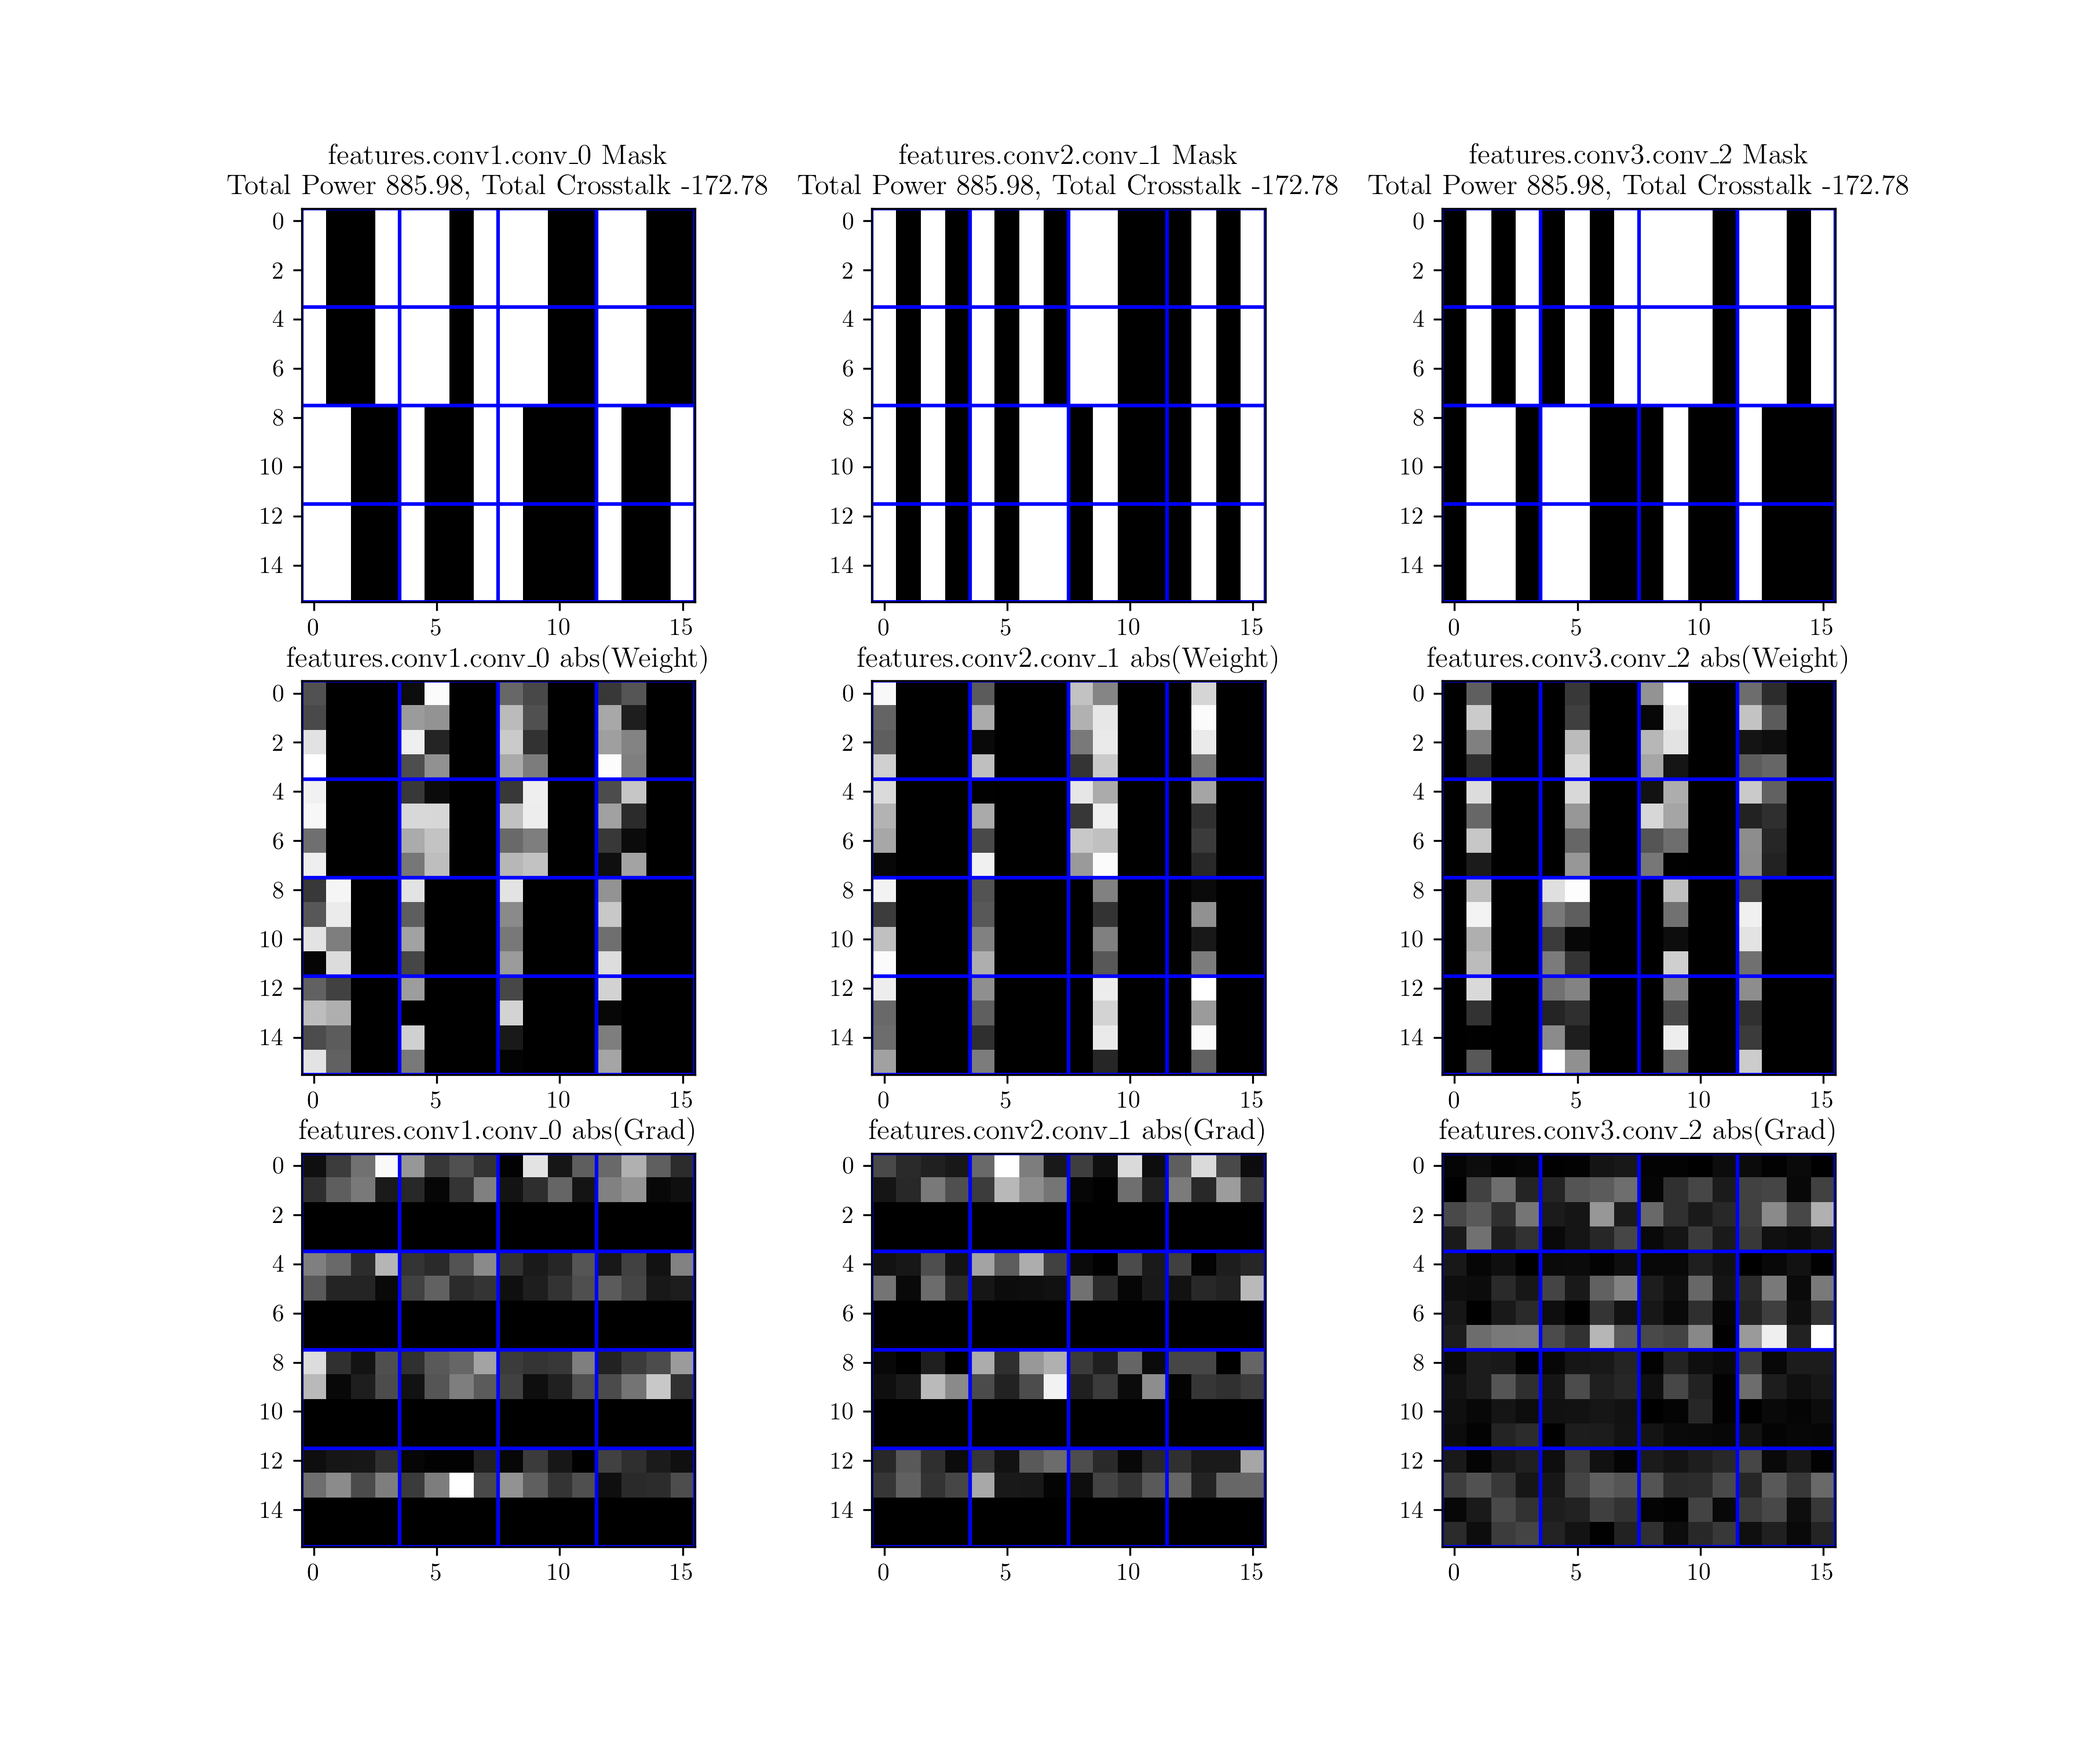
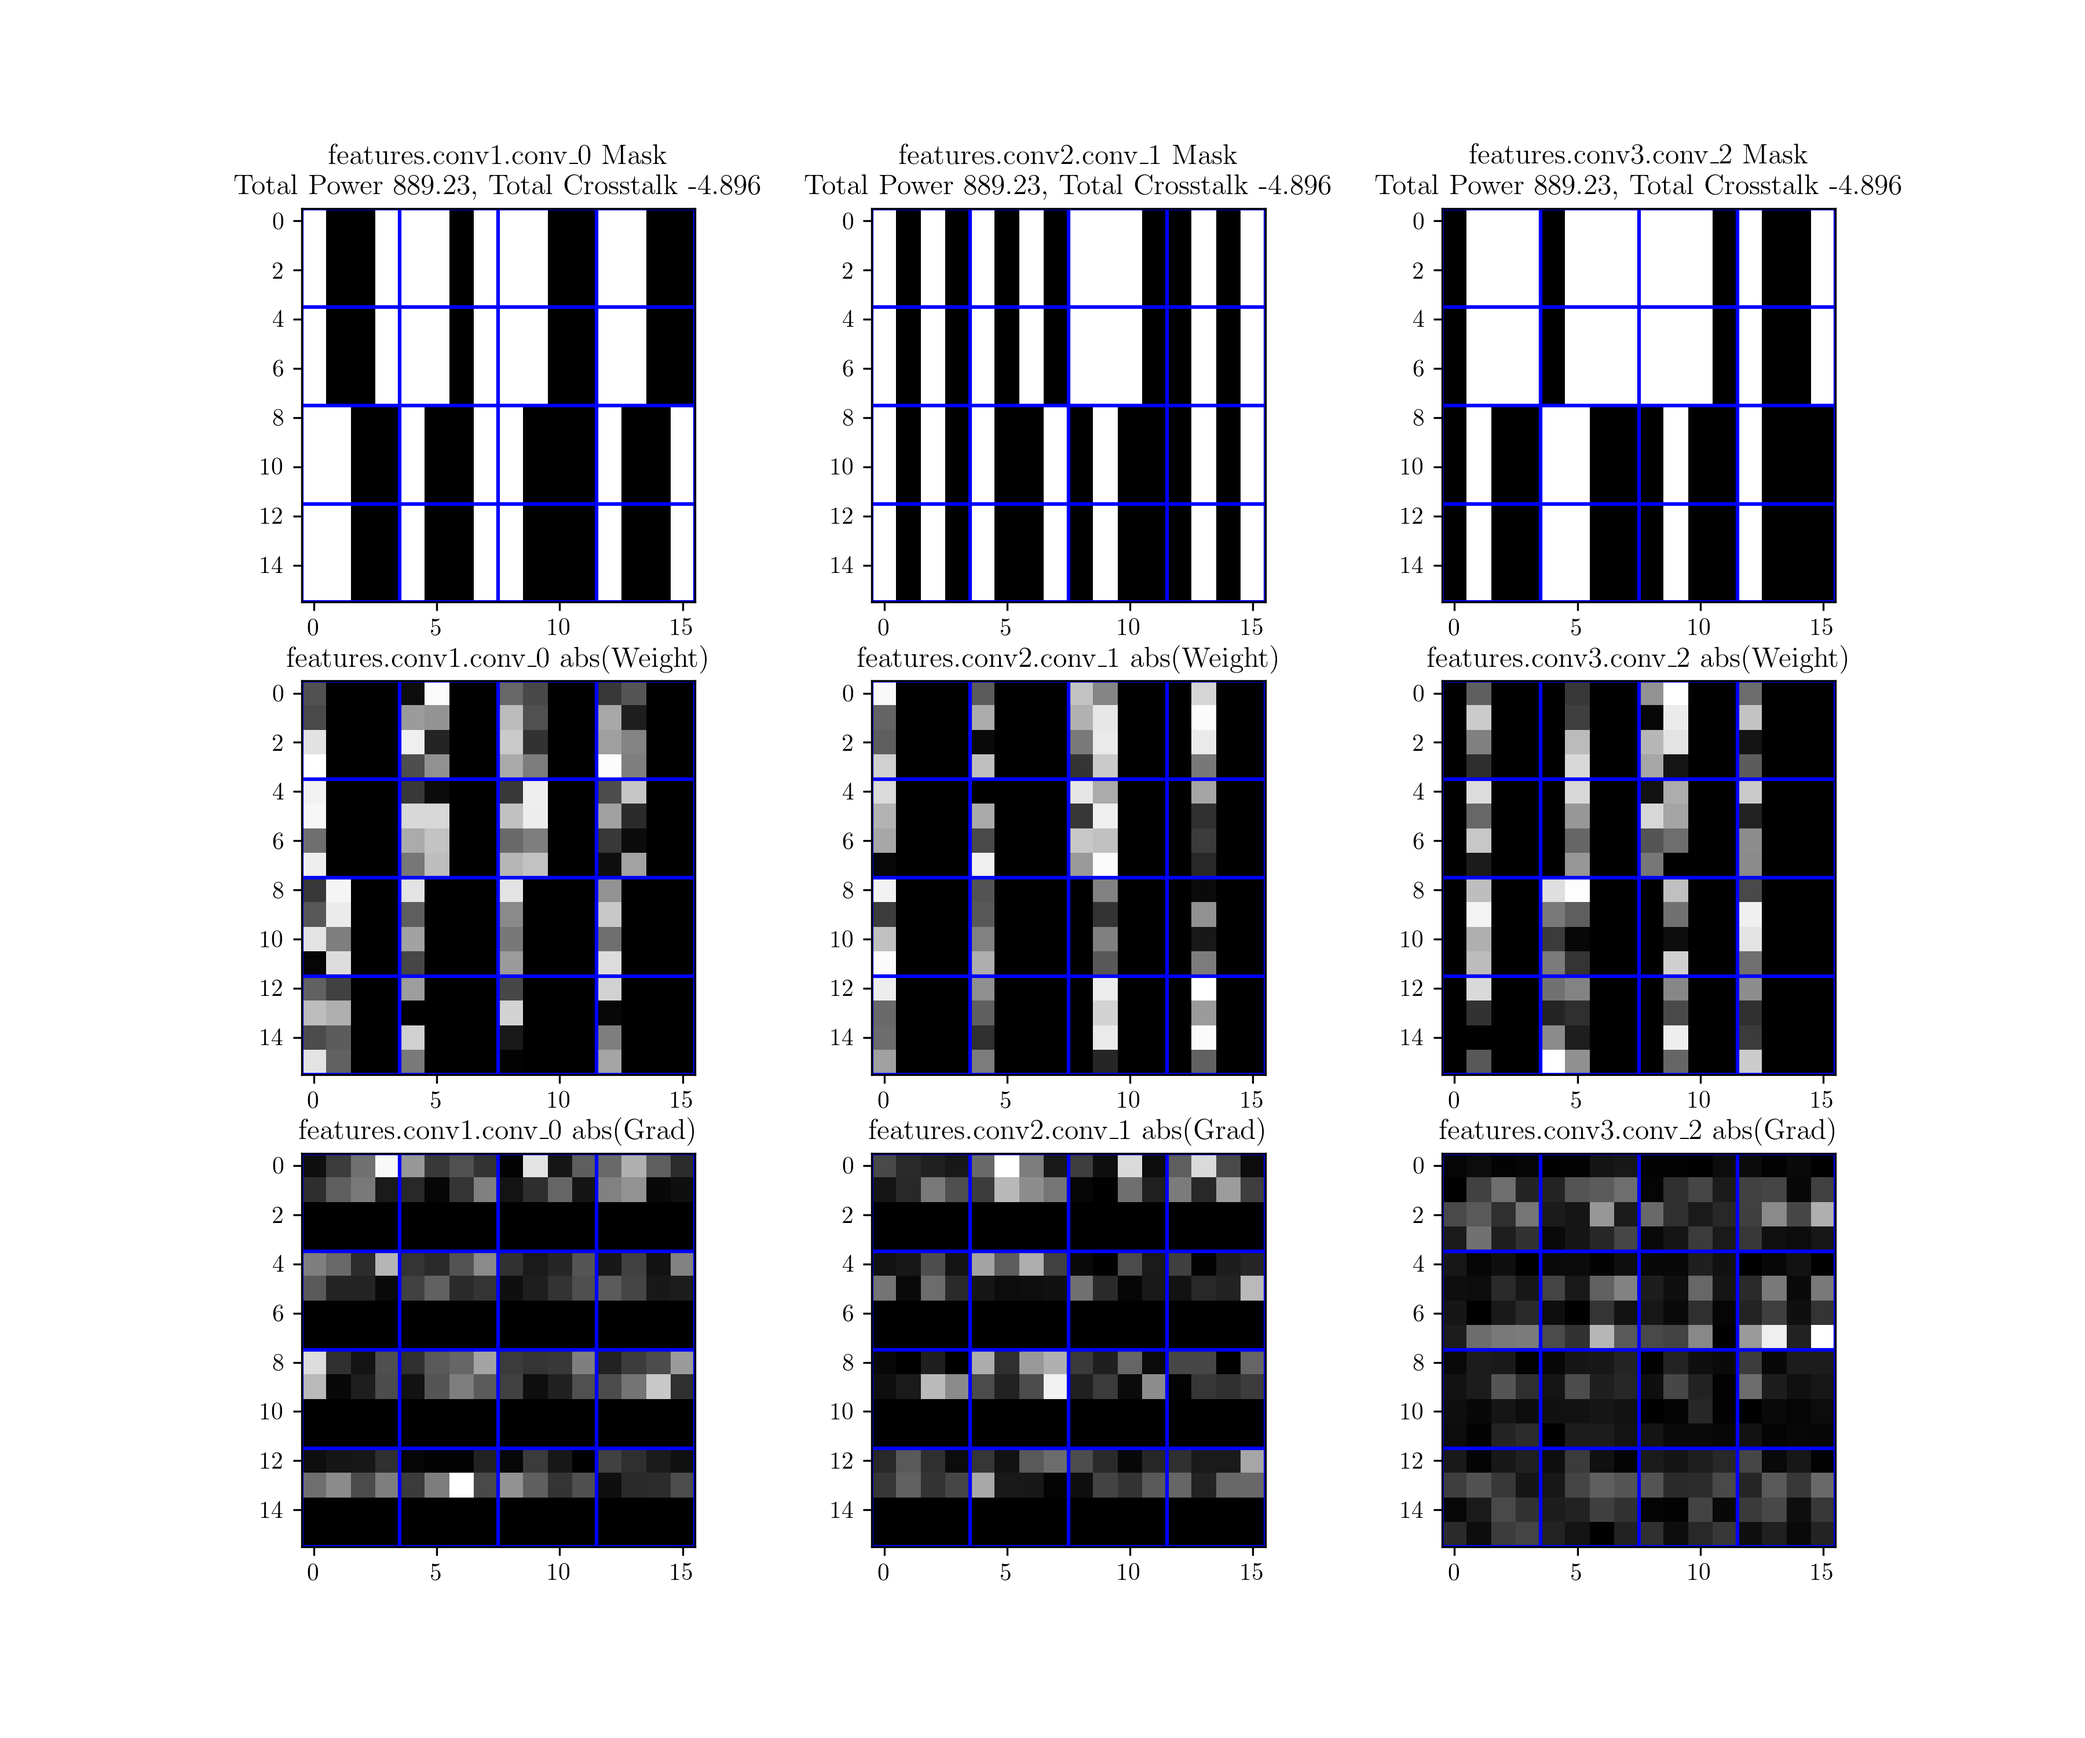
[20240419] use new crosstalk score

Changed region(s): [[0.1244, 0.093, 0.9022, 0.341], [0.84, 0.372, 0.8711, 0.496], [0.4667, 0.217, 0.4978, 0.341]]

diff --git a/core/models/layers/utils.py b/core/models/layers/utils.py
@@ -526,6 +526,7 @@ class CrosstalkScheduler(object):
             -1.04655916e-01,
             1,
         ],  # y=max(0, p1*x^5+p2*x^4+p3*x^3+p4*x^2+p5*x+p6)
+        crosstalk_exp_coupling_factor: float = 0.21474366,  # exp(-a*x)
         interv_h: float = 24.0,  # horizontal spacing (unit: um) between the center of two MZIs
         interv_v: float = 120.0,  # vertical spacing (unit: um) between the center of two MZIs
         interv_s: float = 10.0,  # horizontal spacing (unit: um) between two arms of an MZI
@@ -535,6 +536,7 @@ class CrosstalkScheduler(object):
         self.crosstalk_coupling_factor = torch.tensor(
             crosstalk_coupling_factor, device=device
         )
+        self.crosstalk_exp_coupling_factor = crosstalk_exp_coupling_factor
         self.interv_h = interv_h
         self.interv_v = interv_v
         self.interv_s = interv_s
@@ -574,12 +576,12 @@ class CrosstalkScheduler(object):
         self, distance: Tensor, crosstalk_coupling_factor: Tensor
     ) -> Tensor:
         ## less than 20 um, polynomial is more accurate, higher than 20 um, exp is more accurate
-        out = torch.where(
+        gamma = torch.where(
             distance < 20,
             polynomial(distance, crosstalk_coupling_factor),
-            torch.exp(-0.21474366 * distance),
+            torch.exp(-self.crosstalk_exp_coupling_factor * distance),
         )
-        return out
+        return gamma
 
     def _get_crosstalk_matrix(
         self, crosstalk_coupling_factor, phase, interv_h, interv_v, interv_s
@@ -589,26 +591,21 @@ class CrosstalkScheduler(object):
             torch.arange(k1, device=self.device, dtype=torch.float),
             torch.arange(k2, device=self.device, dtype=torch.float),
         )
-        print(X.shape, Y.shape)
         X, Y = X.flatten(), Y.flatten()
-        print(X.shape, Y.shape)
+
         mask = phase.data.flatten(-2, -1).unsqueeze(-2) < 0
+        X_distance = X.unsqueeze(1).sub(X.unsqueeze(0)).mul_(interv_h)  # [k1*k2, k1*k2]
+        Y_distance_sq = Y.unsqueeze(1).sub(Y.unsqueeze(0)).square_().mul_(interv_v**2)
         distance_upper = (
-            X.unsqueeze(1)
-            .sub(X.unsqueeze(0))  # [k1*k2, k1*k2]
-            .sub(interv_s * mask)  # [..., k1*k2,k1*k2]
+            X_distance.sub(interv_s * mask)  # [..., k1*k2,k1*k2]
             .square_()
-            .mul_(interv_h**2)
-            .add_(Y.unsqueeze(1).sub(Y.unsqueeze(0)).square_().mul_(interv_v**2))
+            .add_(Y_distance_sq)
         ).sqrt_()
 
         distance_lower = (
-            X.unsqueeze(1)
-            .sub(X.unsqueeze(0))  # [k1*k2, k1*k2]
-            .add(interv_s * (~mask))  # [..., k1*k2,k1*k2]
+            X_distance.add(interv_s * (~mask))  # [..., k1*k2,k1*k2]
             .square_()
-            .mul_(interv_h**2)
-            .add_(Y.unsqueeze(1).sub(Y.unsqueeze(0)).square_().mul_(interv_v**2))
+            .add_(Y_distance_sq)
         ).sqrt_()
 
         self.crosstalk_matrix = self._get_crosstalk_gamma(
@@ -655,6 +652,62 @@ class CrosstalkScheduler(object):
         return torch.einsum("...ij,...ji->...i", crosstalk_matrix, flat_phase_abs).view(
             phase_shape
         )
+
+    def calc_crosstalk_score(self, mask: Tensor, is_col: bool = True) -> float:
+        ## given a sparsity mask, find its crosstalk score, higher score means less crosstalk
+        ## the crosstalk is the sum of the negative exp distance between active elements, sum(exp(-d_ij))
+        active_indices = torch.nonzero(mask).squeeze()  # e.g., [0, 1, 3, 5]
+        num_active = active_indices.numel()
+        if num_active < 2:
+            # Not enough active elements to calc separation or density.
+            # should be higher than the best case with two actives
+            ## treated as 2 actives with distance of k
+            active_indices = torch.tensor([0, mask.shape[0]], device=mask.device)
+            num_active = 2
+
+        # calc distances between consecutive active elements
+
+        node_spacing = self.interv_v if is_col else self.interv_h
+
+        ## MZI center to center distance, can be positive or negative
+        ## positive means aggressor is to the right of the victim (left/right layout)
+        center_dist = (
+            active_indices.unsqueeze(1)
+            .sub(active_indices.unsqueeze(0))  # [k1*k2, k1*k2]
+            .float()
+            .mul_(node_spacing)
+        )
+        ## to estimate, aggressor MZI's center to victim's upper arm, can be positive or negative
+
+        distance_upper = (center_dist - self.interv_s / 2).abs()
+
+        ## to estimate, aggressor MZI's center to victim's lower arm, can be positive or negative
+        distance_lower = (center_dist + self.interv_s / 2).abs()
+
+        ## because we do not know the actual aggressor's phase, we do not know whether to include interv_s or not.
+        ## We use a rough estimation, here we overestimate the crosstalk.
+        total_crosstalk = self._get_crosstalk_gamma(
+            distance_upper, self.crosstalk_coupling_factor
+        ).sub_(
+            self._get_crosstalk_gamma(distance_lower, self.crosstalk_coupling_factor)
+        )
+        total_crosstalk[torch.arange(num_active), torch.arange(num_active)] = 0.0
+
+        ## column-wise sum, sum over all aggressors for each victim, positive/negative might cancel out
+        ## then accumulate the absolute crosstalk factors over all victims
+        ## '-' to make the score higher the better
+        return -total_crosstalk.sum(1).abs().sum().item()
+
+    def calc_crosstalk_scores(self, masks: Tensor, is_col: bool = True) -> Tensor:
+        ## given a sparsity mask, find its crosstalk score, higher score means less crosstalk
+        ## the crosstalk is the sum of the negative exp distance between active elements, sum(exp(-d_ij))
+        ## mask: [num_combinations, array_length]
+        ## return: [num_combinations]
+        shape = masks.shape[:-1]
+        total_crosstalk = [
+            self.calc_crosstalk_score(m, is_col) for m in masks.flatten(0, -2)
+        ]
+        return torch.tensor(total_crosstalk, device=self.device).view(shape)
 
 
 class DeterministicCtx:

diff --git a/core/models/dst2.py b/core/models/dst2.py
@@ -670,35 +670,37 @@ class DSTScheduler2(nn.Module):
     def calc_crosstalk_score(self, mask: Tensor, is_col: bool = True) -> float:
         ## given a sparsity mask, find its crosstalk score, higher score means less crosstalk
         ## the crosstalk is the sum of the negative exp distance between active elements, sum(exp(-d_ij))
-        active_indices = torch.nonzero(mask).squeeze()  # e.g., [0, 1, 3, 5]
-        num_active = active_indices.numel()
-        if num_active < 2:
-            # Not enough active elements to calc separation or density.
-            # should be higher than the best case with two actives
-            ## treated as 2 actives with distance of k
-            active_indices = torch.tensor([0, mask.shape[0]])
-            num_active = 2
+        # active_indices = torch.nonzero(mask).squeeze()  # e.g., [0, 1, 3, 5]
+        # num_active = active_indices.numel()
+        # if num_active < 2:
+        #     # Not enough active elements to calc separation or density.
+        #     # should be higher than the best case with two actives
+        #     ## treated as 2 actives with distance of k
+        #     active_indices = torch.tensor([0, mask.shape[0]])
+        #     num_active = 2
 
-        # calc distances between consecutive active elements
+        # # calc distances between consecutive active elements
 
-        dist = (
-            active_indices[None, ...] - active_indices[..., None]
-        ).float().abs() * self.node_spacing[int(is_col)]
-        total_crosstalk = torch.exp(-0.1 * dist).sum().item() - num_active
+        # dist = (
+        #     active_indices[None, ...] - active_indices[..., None]
+        # ).float().abs() * self.node_spacing[int(is_col)]
+        # total_crosstalk = torch.exp(-0.1 * dist).sum().item() - num_active
 
-        return -total_crosstalk
+        # return -total_crosstalk
+        return self.modules[0].crosstalk_scheduler.calc_crosstalk_score(mask, is_col)
 
-    def calc_crosstalk_scores(self, mask: Tensor, is_col: bool = True) -> Tensor:
+    def calc_crosstalk_scores(self, masks: Tensor, is_col: bool = True) -> Tensor:
         ## given a sparsity mask, find its crosstalk score, higher score means less crosstalk
         ## the crosstalk is the sum of the negative exp distance between active elements, sum(exp(-d_ij))
         ## mask: [num_combinations, array_length]
         ## return: [num_combinations]
-        shape = mask.shape[:-1]
-        mask = mask.flatten(0, -2)
-        total_crosstalk = []
-        for m in mask:
-            total_crosstalk.append(self.calc_crosstalk_score(m, is_col))
-        return torch.tensor(total_crosstalk, device=self.device).view(shape)
+        # shape = mask.shape[:-1]
+        # mask = mask.flatten(0, -2)
+        # total_crosstalk = []
+        # for m in mask:
+        #     total_crosstalk.append(self.calc_crosstalk_score(m, is_col))
+        # return torch.tensor(total_crosstalk, device=self.device).view(shape)
+        return self.modules[0].crosstalk_scheduler.calc_crosstalk_scores(masks, is_col)
 
     def calc_TIA_ADC_powers(self, mask: Tensor) -> Tensor:
         ## given a sparsity mask, find its corresponding TIA and ADC power, please provide row mask only

diff --git a/core/builder.py b/core/builder.py
@@ -34,6 +34,7 @@ from core.datasets import (
 )
 
 from core.models import *
+from core.models.layers.utils import CrosstalkScheduler
 
 __all__ = [
     "make_dataloader",
@@ -231,9 +232,19 @@ def make_model(
             act_cfg=model_cfg.act_cfg,
             device=device,
         ).to(device)
+        model.reset_parameters(random_state)
     else:
         model = None
         raise NotImplementedError(f"Not supported model name: {model_cfg.name}")
+    
+    crosstalk_scheduler = CrosstalkScheduler(
+        interv_h=configs.noise.crosstalk_scheduler.interv_h,
+        interv_v=configs.noise.crosstalk_scheduler.interv_v,
+        interv_s=configs.noise.crosstalk_scheduler.interv_s,
+    )
+    model.set_noise_schedulers({"crosstalk_scheduler": crosstalk_scheduler})
+    model.set_noise_flag(configs.noise.noise_flag)
+
     return model
 
 

diff --git a/unitest/test_non_ideality.py b/unitest/test_non_ideality.py
@@ -64,6 +64,14 @@ def test_crosstalk():
     plt.ylabel("N-MAE")
     plt.savefig("./unitest/figs/crosstalk_interv_h.png", dpi=300)
 
+    crosstalk_scheduler.interv_h = 15   
+    for i in range(2):
+        for j in range(2):
+            for k in range(2):
+                for l in range(2):
+                    mask = torch.tensor([i, j, k, l], device=device)
+                    score = crosstalk_scheduler.calc_crosstalk_score(mask=mask, is_col=False)
+                    print(f"mask: {mask}, score: {score}")
 
 def test_output_noise():
     device = "cuda:0"
